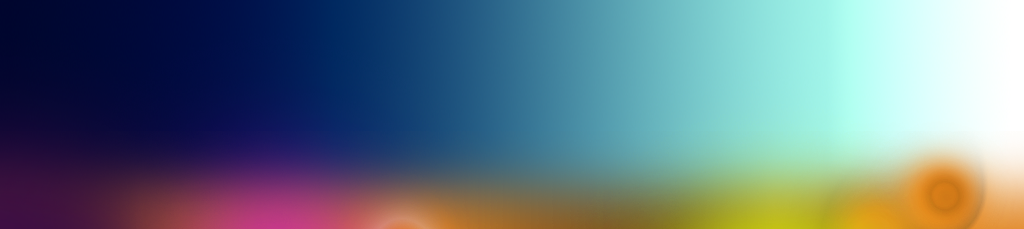
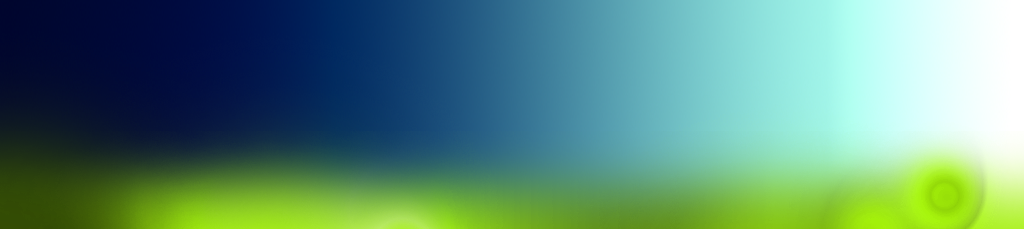
gettin there?

Changed region(s): [[0.0, 0.5808, 1.0, 1.0]]

diff --git a/VolumeRunnerApp/src/ofApp.cpp b/VolumeRunnerApp/src/ofApp.cpp
@@ -13,8 +13,6 @@ AudioManager * am = 0;
 
 //--------------------------------------------------------------
 void ofApp::setup(){
-    am = AudioManager::getInstance();
-    
     ofDisableArbTex();
     
     ofBackground(0, 0, 0);
@@ -42,6 +40,7 @@ void ofApp::setup(){
             params.addFloat("Hold time").setRange(0, 5).set(3);
             params.addFloat("Fade time").setRange(0, 5).set(1);
         } params.endGroup();
+        params.addBang("Reload Ramp");
     } params.endGroup();
     
     
@@ -62,6 +61,8 @@ void ofApp::setup(){
         params.startGroup("View"); {
             params.addFloat("distance").setRange(0, 100).setIncrement(1.0);
             params.addFloat("forward offset").setRange(0,4.0).setIncrement(1.0).set(0.0);
+            params.addFloat("x rot speed").setRange(1.0,14.0).set(camera.rotxSpeed);
+            params.addFloat("y rot speed").setRange(1.0,14.0).set(camera.rotySpeed);
             //params.addFloat("rotx").setRange(-90, 5).setIncrement(1.0);
             //params.addFloat("roty").setRange(-720, 720).setIncrement(1.0);
         } params.endGroup();
@@ -91,6 +92,7 @@ void ofApp::setup(){
     ofSetWindowShape(ofGetScreenWidth() * 0.5, ofGetScreenWidth() * 0.5);
     ofSetWindowPosition(0, 0);
     
+    am = AudioManager::getInstance();
     ofResetElapsedTimeCounter();
     //    cam = new ofCamera();
 }
@@ -140,6 +142,9 @@ void ofApp::computeCameraCollision()
 void ofApp::update(){
     if(params["Update.Pause"]) return;
     
+    if((bool)params["Display.Reload Ramp"])
+        lutImage.load("images/color_lut.png");
+                    
     dude.updateParams(params);
     
     if(params["Update.Dude"]) {
@@ -155,15 +160,34 @@ void ofApp::update(){
     magmaManager.update(floorManager);
     
     if(ofGetKeyPressed(OF_KEY_UP) || ofGetKeyPressed('w')) {
+        if(!dude.isRunning())
+        {
+            dude.walkingAnim->speed = 0.1;
+            dude.run();
+        }
+        
         dude.walkingAnim->speed += ((float)params["Dude.speed"] - dude.walkingAnim->speed) * 0.1;
     } else {
         dude.walkingAnim->speed *= 0.9;
+        
+        if(dude.isRunning() && dude.walkingAnim->speed < EPSILON)
+            if(percent(50))
+            {
+                dude.playAnimation("skip");
+            }
+            else
+            {
+                dude.playAnimation("box");
+            }
     }
+    
     
     float rotspeed = params["Dude.Rot speed"];
     if(ofGetKeyPressed(OF_KEY_LEFT) || ofGetKeyPressed('a')) dude.heading += rotspeed * ofGetLastFrameTime();
     if(ofGetKeyPressed(OF_KEY_RIGHT) || ofGetKeyPressed('d')) dude.heading -= rotspeed * ofGetLastFrameTime();
     
+    camera.rotxSpeed = params["Shader.View.x rot speed"];
+    camera.rotySpeed = params["Shader.View.y rot speed"];
     
     camera.distance = params["Shader.View.distance"];
     

diff --git a/VolumeRunnerApp/src/Dude.cpp b/VolumeRunnerApp/src/Dude.cpp
@@ -34,7 +34,8 @@ bool Dude::init()
     // Walking
     walkingAnim = new SkeletonWalkAnimSource(animSys.getSkeleton(),"run");
     animSys.addAnimSource("run", walkingAnim );
-    animSys.play("run");
+
+    playAnimation("skip");
     
     
     // Left leg
@@ -135,7 +136,10 @@ void Dude::updateParams( msa::controlfreak::ParameterGroup &params )
     
     stepSoundPhase = params["Dude.Audio.Step Phase"];
     
-    blend_k = params["Dude.blend k"];
+    float maxspeed = params["Dude.speed"];
+    float bk = params["Dude.blend k"];
+    float pv = clamp(-position.y/20.0,0.0,1.0);
+    blend_k = bk*0.5+pv*bk*2.0+(maxspeed-walkingAnim->speed)*bk*0.05;
 }
 
 void Dude::update()
@@ -144,7 +148,7 @@ void Dude::update()
         AudioManager::getInstance()->playNote(random(2,15));
     
     // update the animation
-    animSys.update(ofGetLastFrameTime()*1000);
+    animSys.update(animSpeed*ofGetLastFrameTime()*1000);
     
     // update dude position based on movement
     Vec3 o = getOffset();

diff --git a/VolumeRunnerApp/src/Camera.h b/VolumeRunnerApp/src/Camera.h
@@ -11,6 +11,8 @@ public:
     roty(180),
     slowRotX(rotx),
     slowRotY(roty),
+    rotySpeed(2.0),
+    rotxSpeed(2.0),
     groundAngle(0.0),
     distance(100.0),
     target(Vec3(0,0,0)),
@@ -32,8 +34,8 @@ public:
         double msecs = ofGetLastFrameTime()*1000;
         // ease on target
         groundAngle.update(msecs,8.0);
-        slowRotY.update(roty,msecs,2.0);
-        slowRotX.update(std::min(rotx+groundAngle,90.0f),msecs,1.0);
+        slowRotY.update(roty,msecs,rotySpeed);
+        slowRotX.update(std::max(rotx+groundAngle,-90.0f),msecs,rotxSpeed);
 
         target.update(lookat,msecs,2.0);
         heading.update(heading_,msecs,0.5);
@@ -67,6 +69,8 @@ public:
     float rotx;
     float roty;
     float distance;
+    float rotySpeed;
+    float rotxSpeed;
     
     SlowFloat groundAngle;
     SlowFloat slowRotX;

diff --git a/VolumeRunnerApp/src/Dude.h b/VolumeRunnerApp/src/Dude.h
@@ -50,7 +50,7 @@ public:
     
     void playAnimation( const std::string & name );
     
-    void run() { animSys.play("run"); }
+    void run() { playAnimation("run"); }
     bool isRunning() const { return currentAnimation == "run"; }
     
     void debugDraw();
